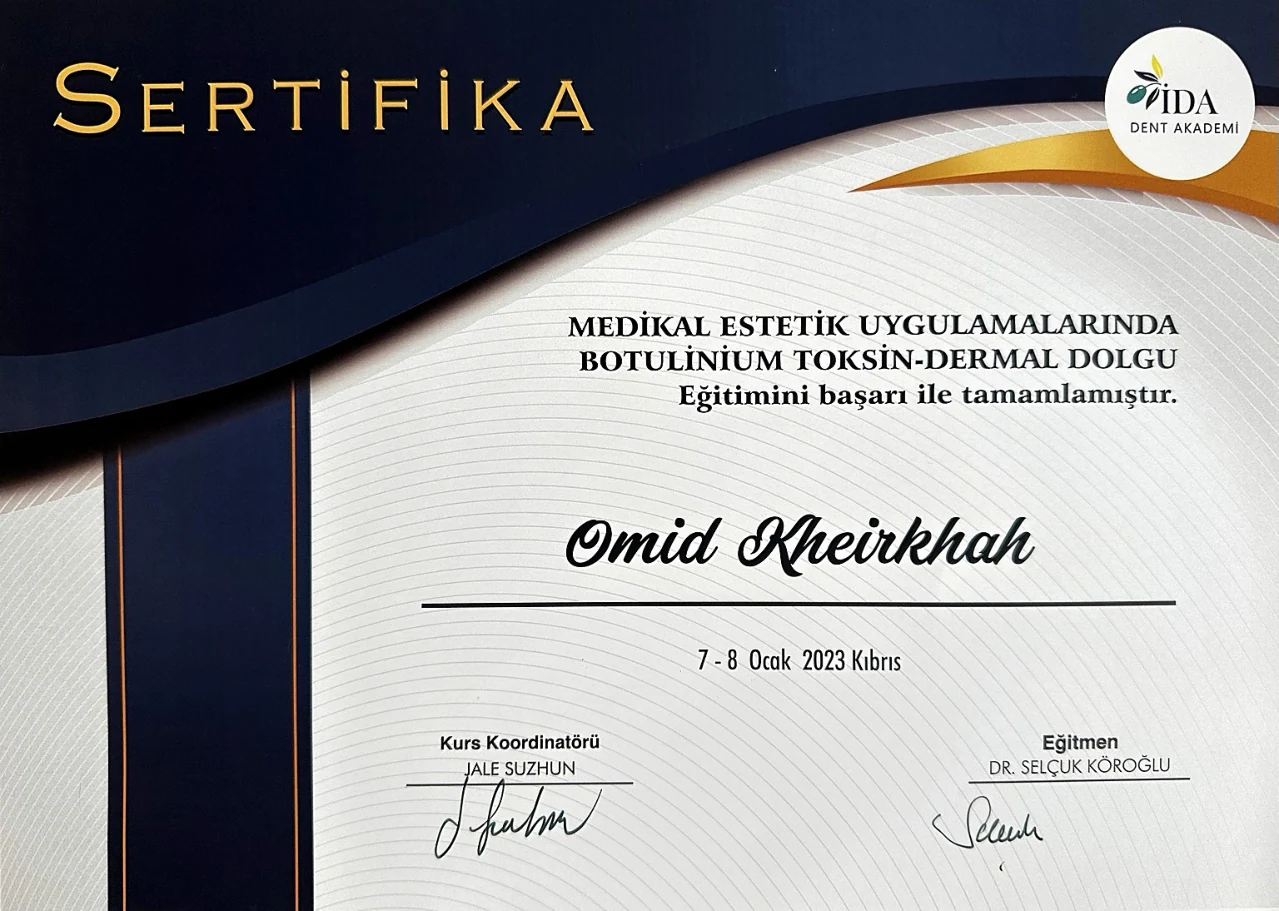
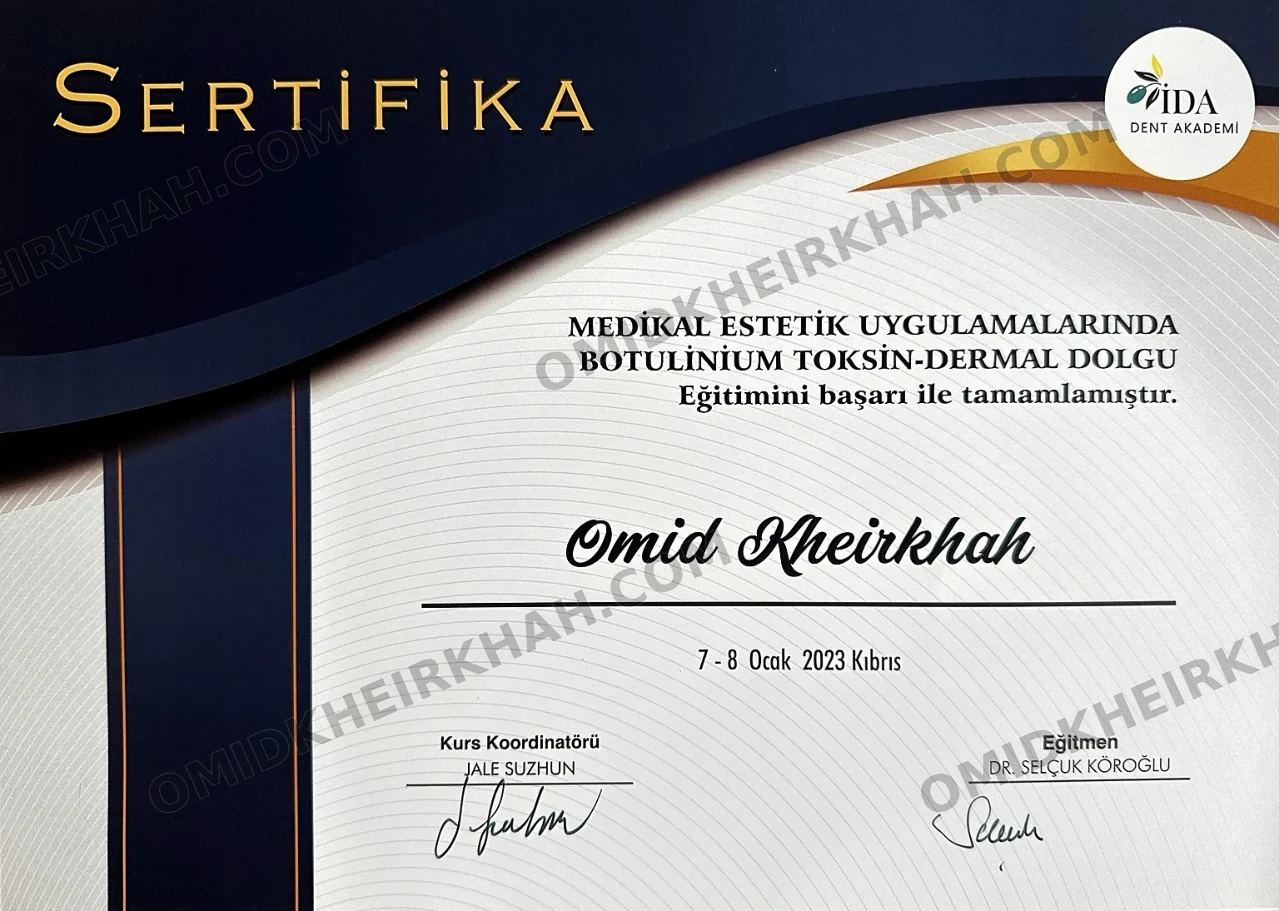
Protect and watermark public credentials

Changed region(s): [[0.3964, 0.1229, 0.8843, 0.4303], [0.2439, 0.584, 0.5794, 0.8299], [0.7013, 0.6762, 1.0, 0.8913]]

diff --git a/index.html b/index.html
@@ -627,7 +627,7 @@ main,.scene,.hub-body,.worlds,.bk-wrap,.iletisim-wrap,.kesifet-wrap{width:100%;m
 <section class="resume-panel" aria-labelledby="education-title">
 <p class="resume-kicker">مسیر تحصیلی</p><h2 id="education-title">دندانپزشکی و مهندسی عمران</h2>
 <div class="resume-entry"><span class="resume-year">۲۰۲۲</span><h3>دکترای حرفهای دندانپزشکی <bdi>(DDS)</bdi></h3><p>دانشکدهٔ دندانپزشکی دانشگاه علوم سلامت و علوم اجتماعی قبرس.</p></div>
-<div class="resume-entry"><span class="resume-year">۱۳۹۴</span><h3>کارشناسی مهندسی عمران ـ سازه</h3><p>دانشگاه آزاد اسلامی، واحد تبریز.</p></div>
+<div class="resume-entry"><span class="resume-year">۱۳۹۴</span><h3>کارشناسی مهندسی عمران ـ سازه</h3><p>دانشگاه آزاد اسلامی.</p></div>
 <div class="resume-entry"><span class="resume-year">۲۰۲۵</span><h3>معادلسازی مدرک دندانپزشکی در ترکیه</h3><p>گواهی معادلسازی صادرشده از شورای آموزش عالی ترکیه <bdi>(YÖK)</bdi>.</p></div>
 </section>
 <section class="resume-panel" aria-labelledby="skills-title">
@@ -642,12 +642,12 @@ main,.scene,.hub-body,.worlds,.bk-wrap,.iletisim-wrap,.kesifet-wrap{width:100%;m
 <section class="credentials-gallery" aria-labelledby="documents-title">
 <div class="credentials-gallery-heading"><p class="resume-kicker">پشتوانهٔ این مسیر</p><h2 id="documents-title">مدارک و گواهیها</h2></div>
 <div class="certificate-grid">
-<figure class="certificate-card"><a class="certificate-image" href="assets/credentials/dentistry.webp" target="_blank" rel="noopener" aria-label="بازکردن تصویر مدرک دندانپزشکی در برگهٔ جدید"><img src="assets/credentials/dentistry.webp" width="1279" height="886" loading="lazy" decoding="async" alt="نسخهٔ عمومی مدرک دکترای حرفهای دندانپزشکی به نام امید خیرخواه"/></a><figcaption><span class="certificate-type">تحصیلات دانشگاهی · ۲۰۲۲</span><h3>دکترای حرفهای دندانپزشکی</h3><p>دانشگاه علوم سلامت و علوم اجتماعی قبرس؛ مدرک <bdi>Doctor of Dental Surgery (DDS)</bdi>.</p><a href="assets/credentials/dentistry.webp" target="_blank" rel="noopener">مشاهدهٔ تصویر کامل <span aria-hidden="true">↗</span></a></figcaption></figure>
-<figure class="certificate-card"><a class="certificate-image" href="assets/credentials/equivalency.webp" target="_blank" rel="noopener" aria-label="بازکردن تصویر گواهی معادلسازی در برگهٔ جدید"><img src="assets/credentials/equivalency.webp" width="1279" height="892" loading="lazy" decoding="async" alt="نسخهٔ عمومی گواهی معادلسازی مدرک دندانپزشکی امید خیرخواه از YÖK ترکیه"/></a><figcaption><span class="certificate-type">معادلسازی تحصیلی · ۲۰۲۵</span><h3>گواهی معادلسازی <bdi>YÖK</bdi></h3><p>صادرشده از شورای آموزش عالی ترکیه برای معادلسازی مدرک دندانپزشکی در نظام آموزش عالی این کشور.</p><a href="assets/credentials/equivalency.webp" target="_blank" rel="noopener">مشاهدهٔ تصویر کامل <span aria-hidden="true">↗</span></a></figcaption></figure>
-<figure class="certificate-card"><a class="certificate-image" href="assets/credentials/civil-engineering.webp?v=portrait" target="_blank" rel="noopener" aria-label="بازکردن تصویر مدرک مهندسی عمران در برگهٔ جدید"><img src="assets/credentials/civil-engineering.webp?v=portrait" width="1094" height="1531" loading="lazy" decoding="async" alt="نسخهٔ عمومی مدرک کارشناسی مهندسی عمران امید خیرخواه؛ اطلاعات هویتی و معدل حذف شده است"/></a><figcaption><span class="certificate-type">تحصیلات دانشگاهی · ۱۳۹۴</span><h3>کارشناسی مهندسی عمران ـ سازه</h3><p>دانشگاه آزاد اسلامی، واحد تبریز؛ پایهٔ دانشگاهی مسیر من در مهندسی و تحلیل سازه.</p><a href="assets/credentials/civil-engineering.webp?v=portrait" target="_blank" rel="noopener">مشاهدهٔ تصویر کامل <span aria-hidden="true">↗</span></a></figcaption></figure>
-<figure class="certificate-card"><a class="certificate-image" href="assets/credentials/membership-history.webp" target="_blank" rel="noopener" aria-label="بازکردن تصویر گواهی عضویت موقت در اتاق دندانپزشکان ترک قبرس در برگهٔ جدید"><img src="assets/credentials/membership-history.webp" width="1279" height="960" loading="lazy" decoding="async" alt="گواهی عضویت موقت امید خیرخواه در اتاق دندانپزشکان ترک قبرس"/></a><figcaption><span class="certificate-type">سابقهٔ حرفهای</span><h3>گواهی عضویت موقت در اتاق دندانپزشکان ترک قبرس</h3><a href="assets/credentials/membership-history.webp" target="_blank" rel="noopener">مشاهدهٔ تصویر کامل <span aria-hidden="true">↗</span></a></figcaption></figure>
-<figure class="certificate-card"><a class="certificate-image" href="assets/credentials/aesthetics-training.webp" target="_blank" rel="noopener" aria-label="بازکردن تصویر گواهی دورهٔ آموزشی در برگهٔ جدید"><img src="assets/credentials/aesthetics-training.webp" width="1279" height="911" loading="lazy" decoding="async" alt="گواهی دورهٔ آموزشی بوتولینوم توکسین و فیلر پوستی به نام امید خیرخواه"/></a><figcaption><span class="certificate-type">آموزش تکمیلی · ۲۰۲۳</span><h3>دورهٔ بوتولینوم توکسین و فیلر پوستی</h3><p>گواهی پایان دورهٔ کاربرد در زیبایی پزشکی، از آکادمی دندانپزشکی <bdi>İDA</bdi>.</p><a href="assets/credentials/aesthetics-training.webp" target="_blank" rel="noopener">مشاهدهٔ تصویر کامل <span aria-hidden="true">↗</span></a></figcaption></figure>
-<figure class="certificate-card"><a class="certificate-image" href="assets/credentials/invention.webp" target="_blank" rel="noopener" aria-label="بازکردن تصویر گواهی ثبت اختراع در برگهٔ جدید"><img src="assets/credentials/invention.webp" width="1116" height="1531" loading="lazy" decoding="async" alt="نسخهٔ عمومی گواهی ثبت اختراع محفظهای آتشخاموشکن اتوماتیک به نام امید خیرخواه"/></a><figcaption><span class="certificate-type">نوآوری و اختراع</span><h3>گواهی ثبت اختراع</h3><p>«محفظهای آتشخاموشکن اتوماتیک»؛ گواهی ثبت اختراع در ایران به نام امید خیرخواه.</p><a href="assets/credentials/invention.webp" target="_blank" rel="noopener">مشاهدهٔ تصویر کامل <span aria-hidden="true">↗</span></a></figcaption></figure>
+<figure class="certificate-card"><div class="certificate-image"><img src="assets/credentials/dentistry.webp?v=watermarked" width="1279" height="886" loading="lazy" decoding="async" draggable="false" alt="نسخهٔ عمومی و واترمارکدار مدرک دکترای حرفهای دندانپزشکی به نام امید خیرخواه"/></div><figcaption><span class="certificate-type">تحصیلات دانشگاهی · ۲۰۲۲</span><h3>دکترای حرفهای دندانپزشکی</h3><p>دانشگاه علوم سلامت و علوم اجتماعی قبرس؛ مدرک <bdi>Doctor of Dental Surgery (DDS)</bdi>.</p></figcaption></figure>
+<figure class="certificate-card"><div class="certificate-image"><img src="assets/credentials/equivalency.webp?v=watermarked" width="1279" height="892" loading="lazy" decoding="async" draggable="false" alt="نسخهٔ عمومی و واترمارکدار گواهی معادلسازی مدرک دندانپزشکی امید خیرخواه از YÖK ترکیه"/></div><figcaption><span class="certificate-type">معادلسازی تحصیلی · ۲۰۲۵</span><h3>گواهی معادلسازی <bdi>YÖK</bdi></h3><p>صادرشده از شورای آموزش عالی ترکیه برای معادلسازی مدرک دندانپزشکی در نظام آموزش عالی این کشور.</p></figcaption></figure>
+<figure class="certificate-card"><div class="certificate-image"><img src="assets/credentials/civil-engineering.webp?v=watermarked" width="1094" height="1531" loading="lazy" decoding="async" draggable="false" alt="نسخهٔ عمومی و واترمارکدار مدرک کارشناسی مهندسی عمران امید خیرخواه؛ اطلاعات هویتی و معدل حذف شده است"/></div><figcaption><span class="certificate-type">تحصیلات دانشگاهی · ۱۳۹۴</span><h3>کارشناسی مهندسی عمران ـ سازه</h3><p>دانشگاه آزاد اسلامی؛ پایهٔ دانشگاهی مسیر من در مهندسی و تحلیل سازه.</p></figcaption></figure>
+<figure class="certificate-card"><div class="certificate-image"><img src="assets/credentials/membership-history.webp?v=watermarked" width="1279" height="960" loading="lazy" decoding="async" draggable="false" alt="نسخهٔ واترمارکدار گواهی عضویت موقت امید خیرخواه در اتاق دندانپزشکان ترک قبرس"/></div><figcaption><span class="certificate-type">سابقهٔ حرفهای</span><h3>گواهی عضویت موقت در اتاق دندانپزشکان ترک قبرس</h3></figcaption></figure>
+<figure class="certificate-card"><div class="certificate-image"><img src="assets/credentials/aesthetics-training.webp?v=watermarked" width="1279" height="911" loading="lazy" decoding="async" draggable="false" alt="نسخهٔ واترمارکدار گواهی دورهٔ آموزشی بوتولینوم توکسین و فیلر پوستی به نام امید خیرخواه"/></div><figcaption><span class="certificate-type">آموزش تکمیلی · ۲۰۲۳</span><h3>دورهٔ بوتولینوم توکسین و فیلر پوستی</h3><p>گواهی پایان دورهٔ کاربرد در زیبایی پزشکی، از آکادمی دندانپزشکی <bdi>İDA</bdi>.</p></figcaption></figure>
+<figure class="certificate-card"><div class="certificate-image"><img src="assets/credentials/invention.webp?v=watermarked" width="1116" height="1531" loading="lazy" decoding="async" draggable="false" alt="نسخهٔ عمومی و واترمارکدار گواهی ثبت اختراع محفظهای آتشخاموشکن اتوماتیک به نام امید خیرخواه"/></div><figcaption><span class="certificate-type">نوآوری و اختراع</span><h3>گواهی ثبت اختراع</h3><p>«محفظهای آتشخاموشکن اتوماتیک»؛ گواهی ثبت اختراع در ایران به نام امید خیرخواه.</p></figcaption></figure>
 </div>
 </section>
 <aside class="resume-contact"><div><h2>برای یک همکاری تازه گفتوگو کنیم.</h2><p>پروژههای سلامت، آموزش، مهندسی و راهکارهای دیجیتال.</p></div><a class="button-primary" data-goto="iletisim" href="#iletisim">ارتباط برای همکاری</a></aside>
@@ -784,5 +784,5 @@ main,.scene,.hub-body,.worlds,.bk-wrap,.iletisim-wrap,.kesifet-wrap{width:100%;m
 <!-- CONTACT -->
 <!-- ARTICLES -->
 <!-- LAB/INNOVATION -->
-<script defer="" src="site.js?v=20260916-about-v2"></script></body>
+<script defer="" src="site.js?v=20260916-credentials-v3"></script></body>
 </html>

diff --git a/site-refinement.css b/site-refinement.css
@@ -9,7 +9,7 @@ body{font-weight:400}button,input,select,textarea{font:inherit}button,a,input,se
 @media(max-width:1000px){.desktop-nav{display:none}.lang-switch{margin-inline-start:auto}.worlds-list,.art-grid{grid-template-columns:repeat(2,minmax(0,1fr))}.iletisim-grid{gap:32px}.site-nav{padding:0 24px}.hero-arch{width:210px;height:210px}.hero{text-align:right}.hero-avatar{margin-top:16px}.hero-actions{justify-content:flex-start}}
 @media(max-width:640px){:root{--wrap:calc(100% - 36px);--nav-h:72px}.site-nav{padding:0 16px;gap:10px}#logo{font-size:.86rem}.lang-switch{gap:5px}.lang-switch a{min-width:32px;min-height:38px;font-size:.72rem}.hero{padding-top:26px}.hero-arch{width:150px;height:150px;margin:0 auto 12px}.hero-avatar{width:66px;height:66px;margin-bottom:18px}.hero-lead{font-size:.97rem}.hero-h{font-size:2.25rem!important}.hero-actions{width:100%}.hero-actions>a{flex:1;padding:12px 10px;font-size:.86rem}.worlds-list,.art-grid{grid-template-columns:1fr}.wcard{min-height:0;padding:24px}.wcard-name{font-size:1.3rem}.worlds-head{margin-bottom:24px}.hub-contact{padding:24px}.hub-contact h3{font-size:1.5rem}.contact-form,.uni-form{padding:20px}.cf-row{display:grid;grid-template-columns:1fr;gap:20px}.iletisim-grid{grid-template-columns:1fr}.iletisim-wrap{padding-top:110px!important}.uni-form{grid-template-columns:1fr!important}.art-row{min-height:0;padding:24px}.art-title{font-size:1.15rem}.article-search{margin-top:20px}.search-controls{flex-wrap:wrap}.menu-socials{flex-wrap:wrap}.uni-card{padding:24px!important}.uni-card-badge{font-size:2.4rem}.uni-cta-box{padding:24px 16px!important}}
 @media(prefers-reduced-motion:reduce){*,*::before,*::after{animation:none!important;transition:none!important;scroll-behavior:auto!important}.hero-avatar,.hero-tag,.hero-lead,.hero-stats,.hero-arch,.worlds-head,.wcard,.hub-contact,.menu-item{opacity:1!important;transform:none!important}.hero-h .ln>span{transform:none!important}.scene.active{opacity:1;transform:none}}
-#credentials{background:#0b0b0a}.credentials-wrap{padding:30px 0 80px}.credentials-header{max-width:850px;padding-bottom:46px}.credentials-header h2{font-size:clamp(2rem,4.8vw,3.8rem);font-weight:400;line-height:1.65;margin:16px 0 22px}.credentials-header h2 em{color:var(--gold);font-style:normal}.credentials-lead{color:var(--tx-d);font-size:1.02rem;line-height:2.15;max-width:760px}.credentials-domains{display:flex;flex-wrap:wrap;gap:9px;margin-top:24px}.credentials-domains span{border:1px solid #474132;border-radius:30px;padding:6px 17px;font-size:.82rem;color:#d9c89d}.resume-grid{display:grid;grid-template-columns:repeat(2,minmax(0,1fr));gap:22px}.resume-panel{padding:30px;border:1px solid #353128;border-radius:12px;background:linear-gradient(140deg,#171612,#10100f);min-width:0}.resume-kicker{color:var(--gold);font-size:.8rem;margin-bottom:10px}.resume-panel h2{font-size:1.3rem;font-weight:500;line-height:1.9;margin-bottom:24px}.resume-entry+.resume-entry{border-top:1px solid #343027;margin-top:22px;padding-top:22px}.resume-entry h3{font-size:1rem;font-weight:500;line-height:1.9;margin-bottom:8px}.resume-entry p{color:var(--tx-d);font-size:.92rem;line-height:2.05}.resume-year{display:block;color:var(--gold);font-size:.8rem;margin-bottom:7px}.resume-text-link{display:inline-flex;align-items:center;min-height:44px;color:var(--gold);font-size:.88rem;margin-top:6px;text-underline-offset:5px}.resume-text-link:hover{text-decoration:underline}.resume-skills{list-style:none;display:flex;flex-wrap:wrap;gap:10px;margin:0;padding:0}.resume-skills li{padding:8px 12px;border:1px solid #454033;background:#191813;border-radius:6px;font-size:.84rem;color:#d7d1c5;line-height:1.9}.resume-languages{margin:0}.resume-languages>div{display:flex;justify-content:space-between;gap:20px;padding:12px 0;border-bottom:1px solid #343027;font-size:.92rem}.resume-languages>div:last-child{border-bottom:0}.resume-languages dd{margin:0;color:var(--tx-d)}.credentials-gallery{padding-top:68px}.credentials-gallery-heading{max-width:760px;margin-bottom:30px}.credentials-gallery-heading h2{font-size:clamp(1.7rem,3vw,2.5rem);font-weight:400;line-height:1.7;margin-bottom:14px}.credentials-gallery-heading>p:last-child{color:var(--tx-d);line-height:2.1;font-size:.93rem}.certificate-grid{display:grid;grid-template-columns:repeat(2,minmax(0,1fr));gap:24px}.certificate-card{margin:0;min-width:0;border:1px solid #3a352a;border-radius:12px;background:#14130f;overflow:hidden;display:flex;flex-direction:column}.certificate-image{display:flex;align-items:center;justify-content:center;padding:18px;background:#eeece7;aspect-ratio:4/3;overflow:hidden}.certificate-image img{display:block;width:100%;height:100%;max-height:100%;object-fit:contain}.certificate-image:focus-visible{outline-offset:-6px}.certificate-card figcaption{padding:25px;display:flex;flex-direction:column;flex:1}.certificate-type{color:var(--gold);font-size:.77rem}.certificate-card h3{font-size:1.18rem;font-weight:500;line-height:1.9;margin:10px 0}.certificate-card p{color:var(--tx-d);font-size:.9rem;line-height:2.05;margin-bottom:18px}.certificate-card figcaption>a{display:flex;align-items:center;justify-content:space-between;margin-top:auto;padding:12px 0 0;border-top:1px solid #3b3426;min-height:44px;font-size:.88rem;color:#e0c990}.certificate-card figcaption>a:hover{text-decoration:underline;text-underline-offset:5px}.resume-contact{display:flex;align-items:center;justify-content:space-between;gap:24px;margin-top:50px;padding:30px;border:1px solid #51462d;border-radius:12px;background:#1b1811}.resume-contact h2{font-size:1.3rem;font-weight:500;line-height:1.9;margin-bottom:6px}.resume-contact p{font-size:.92rem;color:var(--tx-d);line-height:2}.resume-contact .button-primary{flex-shrink:0}
+#credentials{background:#0b0b0a}.credentials-wrap{padding:30px 0 80px}.credentials-header{max-width:850px;padding-bottom:46px}.credentials-header h2{font-size:clamp(2rem,4.8vw,3.8rem);font-weight:400;line-height:1.65;margin:16px 0 22px}.credentials-header h2 em{color:var(--gold);font-style:normal}.credentials-lead{color:var(--tx-d);font-size:1.02rem;line-height:2.15;max-width:760px}.credentials-domains{display:flex;flex-wrap:wrap;gap:9px;margin-top:24px}.credentials-domains span{border:1px solid #474132;border-radius:30px;padding:6px 17px;font-size:.82rem;color:#d9c89d}.resume-grid{display:grid;grid-template-columns:repeat(2,minmax(0,1fr));gap:22px}.resume-panel{padding:30px;border:1px solid #353128;border-radius:12px;background:linear-gradient(140deg,#171612,#10100f);min-width:0}.resume-kicker{color:var(--gold);font-size:.8rem;margin-bottom:10px}.resume-panel h2{font-size:1.3rem;font-weight:500;line-height:1.9;margin-bottom:24px}.resume-entry+.resume-entry{border-top:1px solid #343027;margin-top:22px;padding-top:22px}.resume-entry h3{font-size:1rem;font-weight:500;line-height:1.9;margin-bottom:8px}.resume-entry p{color:var(--tx-d);font-size:.92rem;line-height:2.05}.resume-year{display:block;color:var(--gold);font-size:.8rem;margin-bottom:7px}.resume-text-link{display:inline-flex;align-items:center;min-height:44px;color:var(--gold);font-size:.88rem;margin-top:6px;text-underline-offset:5px}.resume-text-link:hover{text-decoration:underline}.resume-skills{list-style:none;display:flex;flex-wrap:wrap;gap:10px;margin:0;padding:0}.resume-skills li{padding:8px 12px;border:1px solid #454033;background:#191813;border-radius:6px;font-size:.84rem;color:#d7d1c5;line-height:1.9}.resume-languages{margin:0}.resume-languages>div{display:flex;justify-content:space-between;gap:20px;padding:12px 0;border-bottom:1px solid #343027;font-size:.92rem}.resume-languages>div:last-child{border-bottom:0}.resume-languages dd{margin:0;color:var(--tx-d)}.credentials-gallery{padding-top:68px}.credentials-gallery-heading{max-width:760px;margin-bottom:30px}.credentials-gallery-heading h2{font-size:clamp(1.7rem,3vw,2.5rem);font-weight:400;line-height:1.7;margin-bottom:14px}.credentials-gallery-heading>p:last-child{color:var(--tx-d);line-height:2.1;font-size:.93rem}.certificate-grid{display:grid;grid-template-columns:repeat(2,minmax(0,1fr));gap:24px}.certificate-card{margin:0;min-width:0;border:1px solid #3a352a;border-radius:12px;background:#14130f;overflow:hidden;display:flex;flex-direction:column}.certificate-image{display:flex;align-items:center;justify-content:center;padding:18px;background:#eeece7;aspect-ratio:4/3;overflow:hidden}.certificate-image img{display:block;width:100%;height:100%;max-height:100%;object-fit:contain;pointer-events:none;user-select:none;-webkit-user-drag:none;-webkit-touch-callout:none}.certificate-card figcaption{padding:25px;display:flex;flex-direction:column;flex:1}.certificate-type{color:var(--gold);font-size:.77rem}.certificate-card h3{font-size:1.18rem;font-weight:500;line-height:1.9;margin:10px 0}.certificate-card p{color:var(--tx-d);font-size:.9rem;line-height:2.05;margin-bottom:18px}.resume-contact{display:flex;align-items:center;justify-content:space-between;gap:24px;margin-top:50px;padding:30px;border:1px solid #51462d;border-radius:12px;background:#1b1811}.resume-contact h2{font-size:1.3rem;font-weight:500;line-height:1.9;margin-bottom:6px}.resume-contact p{font-size:.92rem;color:var(--tx-d);line-height:2}.resume-contact .button-primary{flex-shrink:0}
 @media(min-width:1001px) and (max-width:1160px){.desktop-nav{gap:14px;font-size:.8rem}.site-nav{gap:16px}}
 @media(max-width:700px){.credentials-wrap{padding-top:20px}.credentials-header{padding-bottom:30px}.credentials-header h2{font-size:2rem}.resume-grid,.certificate-grid{grid-template-columns:1fr;gap:18px}.resume-panel{padding:23px}.credentials-gallery{padding-top:44px}.certificate-image{padding:12px}.certificate-card figcaption{padding:22px}.resume-contact{flex-direction:column;align-items:stretch;padding:24px;margin-top:30px}.resume-contact h2{font-size:1.15rem}}
 @media print{.site-nav,#menuOverlay,.hero-arch,.particles{display:none!important}body{background:white;color:black}.scene.active{opacity:1}#credentials{background:white;color:black}.resume-panel,.certificate-card,.resume-contact{background:white;color:black;break-inside:avoid}.credentials-wrap{padding-top:0}.credentials-lead,.resume-entry p,.certificate-card p,.resume-contact p,.credentials-gallery-heading>p:last-child,.resume-languages dd{color:#333}}

diff --git a/site.js b/site.js
@@ -90,4 +90,9 @@ $$('form').forEach(form=>form.addEventListener('submit',e=>{
   window.location.assign(url);
 }));
 $$('input,textarea').forEach(el=>el.addEventListener('input',()=>el.setCustomValidity('')));
+const certificateGallery=$('.credentials-gallery');
+if(certificateGallery){
+  certificateGallery.addEventListener('contextmenu',e=>e.preventDefault());
+  certificateGallery.addEventListener('dragstart',e=>{if(e.target.matches('.certificate-image img'))e.preventDefault();});
+}
 const initial=readRoute();setScene(initial.id,initial);
